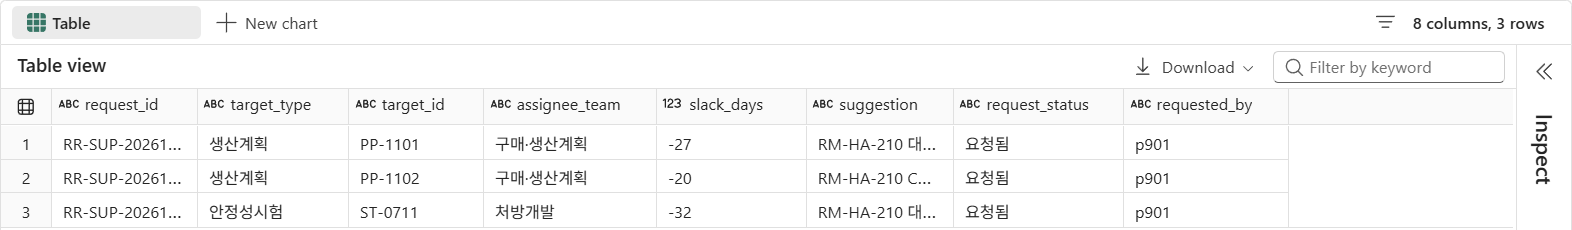
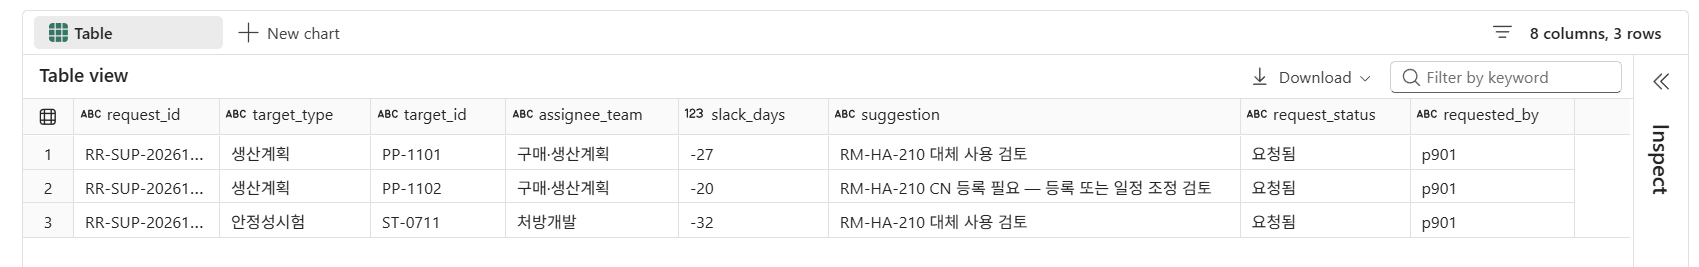
Clarify automatic action execution and show complete suggestions

diff --git a/tests/test_kit.py b/tests/test_kit.py
@@ -1141,6 +1141,9 @@ class Docs(unittest.TestCase):
         self.assertNotIn("아래 화면은 `r1` 예시입니다", approval)
         self.assertNotIn("`r2` 알림을 승인한다면", approval)
         self.assertIn("**Confirm**", approval)
+        self.assertIn("**Action으로 등록한 Fabric 항목이 자동 실행**", approval)
+        self.assertIn("`nb_apply_review` Notebook이 전달된 매개 변수로 실행", approval)
+        self.assertIn("별도로 실행 버튼을 누르지 않습니다", approval)
         self.assertIn("제출 완료이며, 실행 성공은 다음 단계에서 확인", approval)
         self.assertIn("**Monitor** → **Activities**", execution)
         self.assertIn("**Succeeded**", execution)

diff --git a/docs/05-approval.md b/docs/05-approval.md
@@ -26,7 +26,7 @@
 
    ![Teams에서 Confirm을 선택한 후 You selected Confirm으로 승인 응답이 표시된 화면](../assets/screenshots/05-confirm-selected.png)
 
-**확인할 결과:** **Action submitted** 메시지가 옵니다. 제출 완료이며, 실행 성공은 다음 단계에서 확인합니다.
+**확인할 결과:** **Action submitted** 메시지가 옵니다. 액션이 제출되면 **Action으로 등록한 Fabric 항목이 자동 실행**됩니다. 이 실습에서는 `nb_apply_review` Notebook이 전달된 매개 변수로 실행되며, 별도로 실행 버튼을 누르지 않습니다. 제출 완료이며, 실행 성공은 다음 단계에서 확인합니다.
 
 ![RequestMaterialReview가 제공된 매개 변수로 제출되었다는 Action submitted 메시지](../assets/screenshots/05-action-submitted.png)
 
